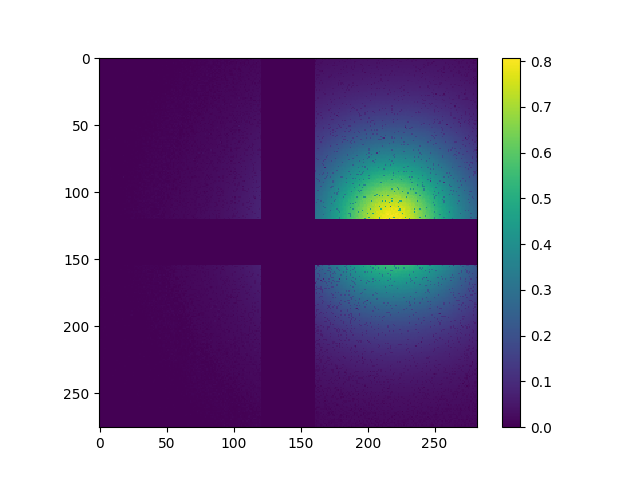
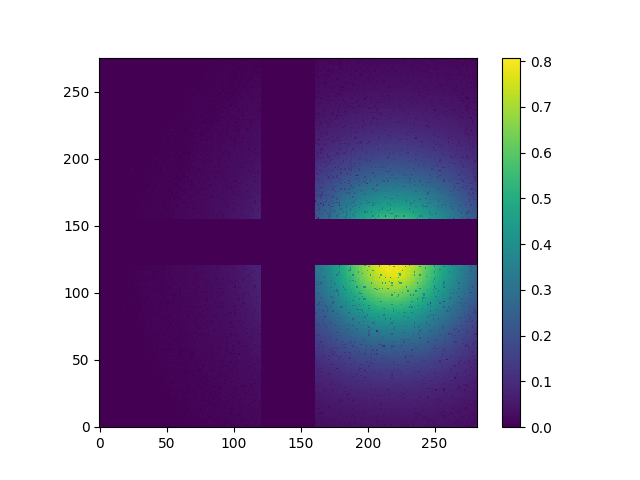
make heatmaps origin bottom left

diff --git a/dataset/heatmap.py b/dataset/heatmap.py
@@ -56,11 +56,11 @@ def main():
         matrix = np.zeros((y_size, x_size, led_size))
         for i, led in enumerate(leds):
             matrix[df["y"],df["x"], i] = df[led]
-        
+
         np.save(args.dst+f"/heatmap_{z}/raw.npy", matrix)
 
         for i in tqdm(range(matrix.shape[2]), f"Exporting heat maps for z={z}"):
-            plt.imshow(matrix[:, :, i], interpolation='nearest')
+            plt.imshow(matrix[:, :, i], interpolation='nearest', origin='lower')
             plt.colorbar()
             plt.savefig(args.dst+f"/heatmap_{z}/led_{i}.png")
             plt.clf()
